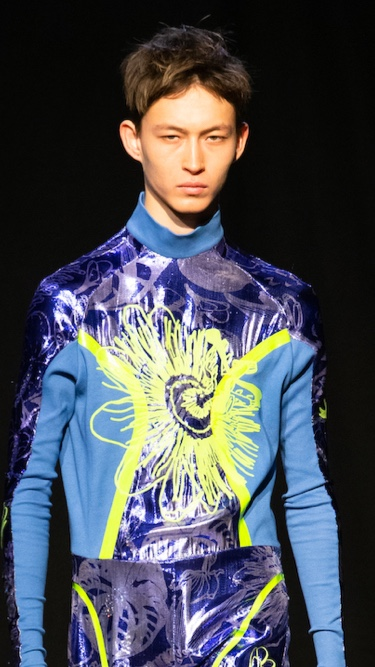
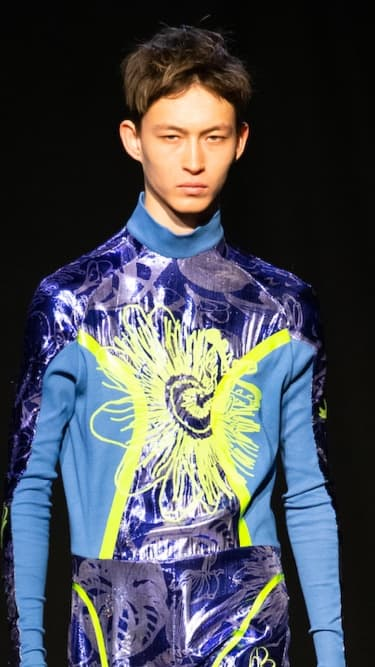
iefuiog4g

diff --git a/pages/index.vue b/pages/index.vue
@@ -70,13 +70,18 @@
         >
       </div>
       <div class="relative pt-[35px]">
-        <img
-          class="w-[270px] md:w-[460px]"
-          src="/images/lola-van-praag.jpg"
-          width="460"
-          height="595"
-          alt="Lola van Praag"
-        />
+        <picture>
+          <source srcset="/images/lola-van-praag.avif" type="image/avif" />
+          <source srcset="/images/lola-van-praag.webp" type="image/webp" />
+          <source srcset="/images/lola-van-praag.jpg" type="image/jpeg" />
+          <img
+            class="w-[270px] md:w-[460px]"
+            src="/images/lola-van-praag.jpg"
+            alt="Lola van Praag"
+            width="460"
+            height="595"
+          />
+        </picture>
         <div
           class="absolute top-[83px] left-[229px] w-[80px] h-[80px] md:top-[72px] md:left-[400px] md:w-[190px] md:h-[190px]"
           @click="toggleFabricExplanation"
